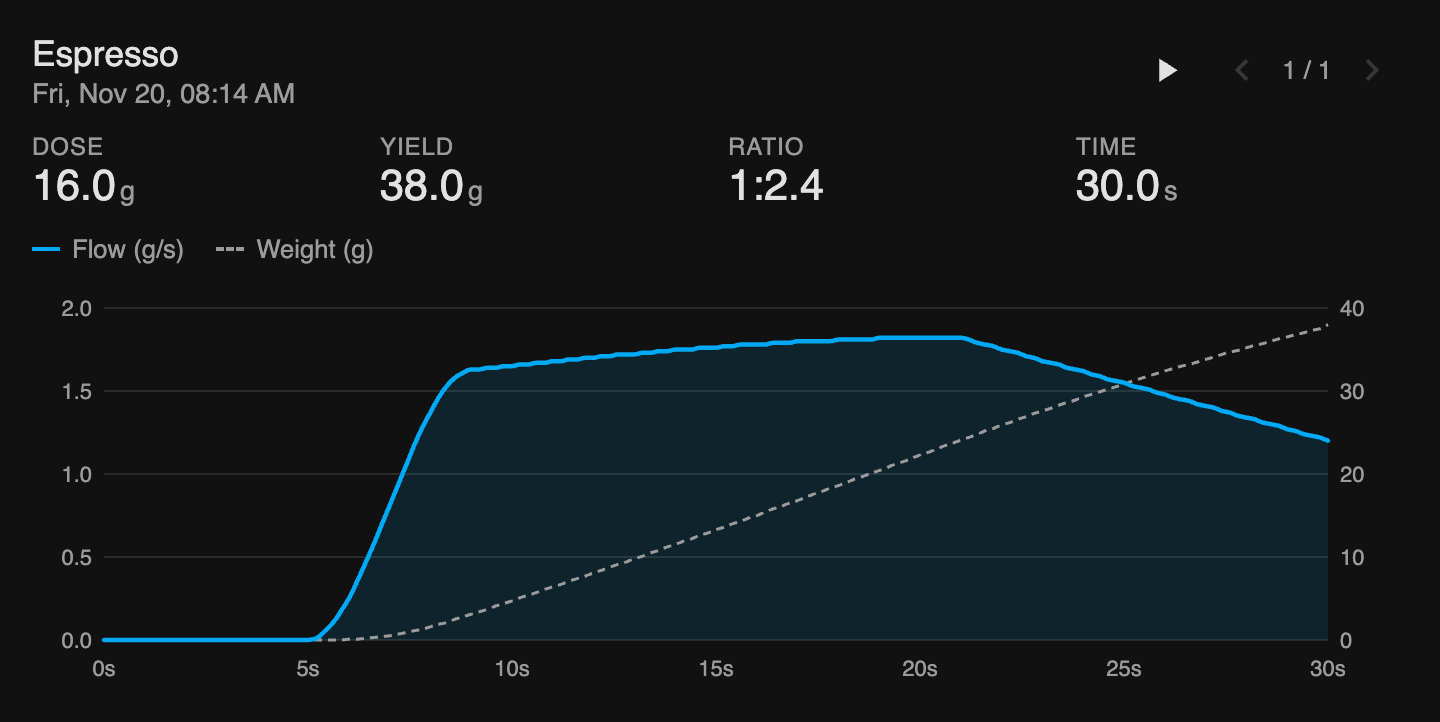
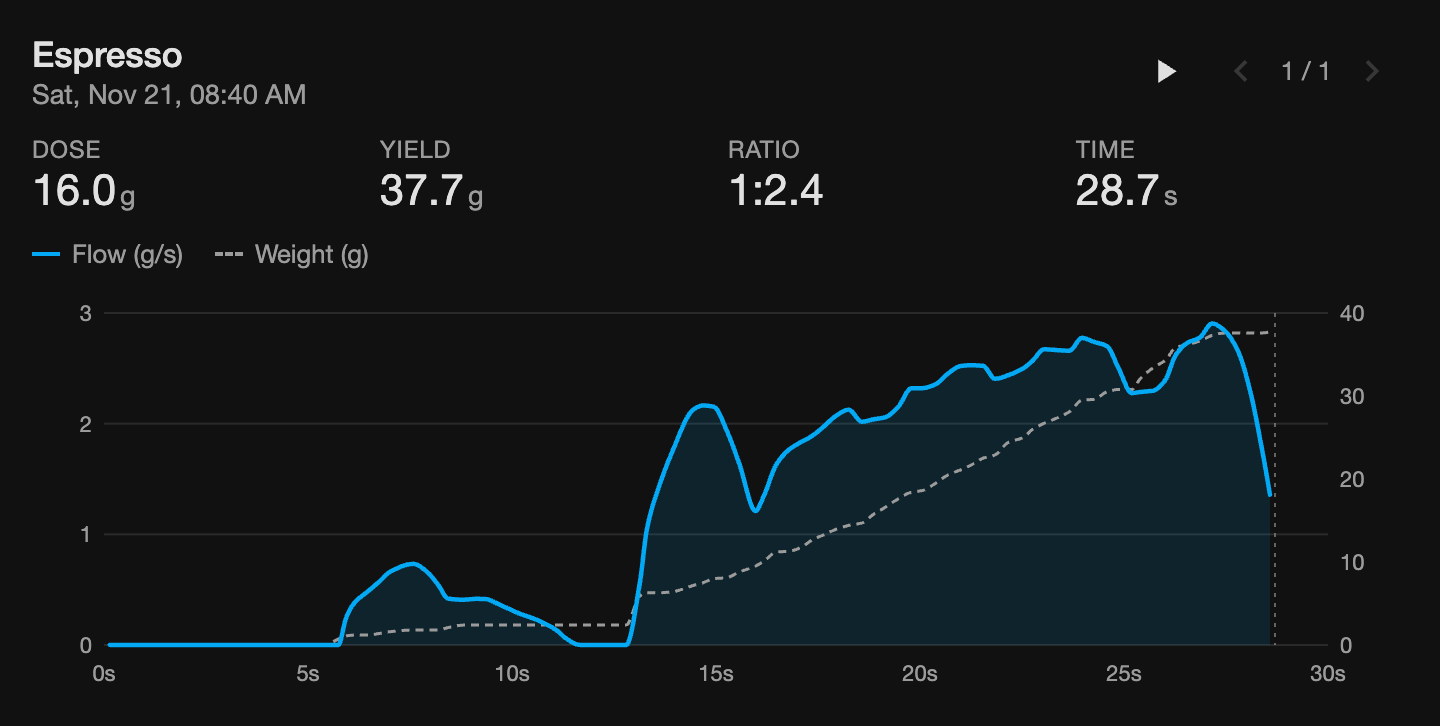
README: brew card screenshot from a real brew
Replaces the simulated brew with the last recorded one (16.0 g dose,
37.7 g yield, 28.7 s), rendered with the card's default smoothing.

diff --git a/README.md b/README.md
@@ -67,10 +67,10 @@ The integration ships a Lovelace card and registers it as a dashboard resource a
 
 <picture>
   <source media="(prefers-color-scheme: dark)" srcset="docs/brew-card-dark.png">
-  <img alt="Brew card showing a brew with 16 g dose, 38 g yield, ratio 1:2.4 and 30 s brew time" src="docs/brew-card-light.png" width="720">
+  <img alt="Brew card showing a real espresso: 16.0 g dose, 37.7 g yield, ratio 1:2.4, 28.7 s" src="docs/brew-card-light.png" width="720">
 </picture>
 
-<sub>Simulated brew: 16 g dose, 38 g yield, 30 s.</sub>
+<sub>A real brew recorded by the integration (default <code>flow_smoothing: 3</code>): 16.0 g dose, 37.7 g yield, 28.7 s.</sub>
 
 ```yaml
 type: custom:difluid-brew-card
